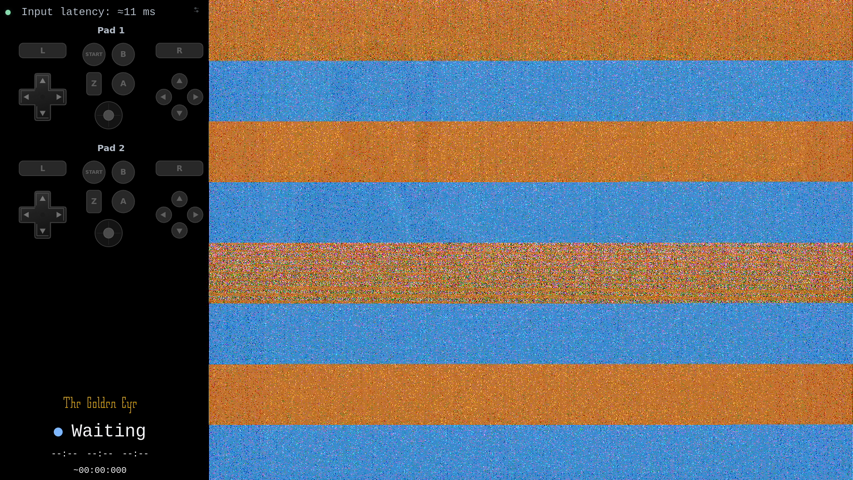
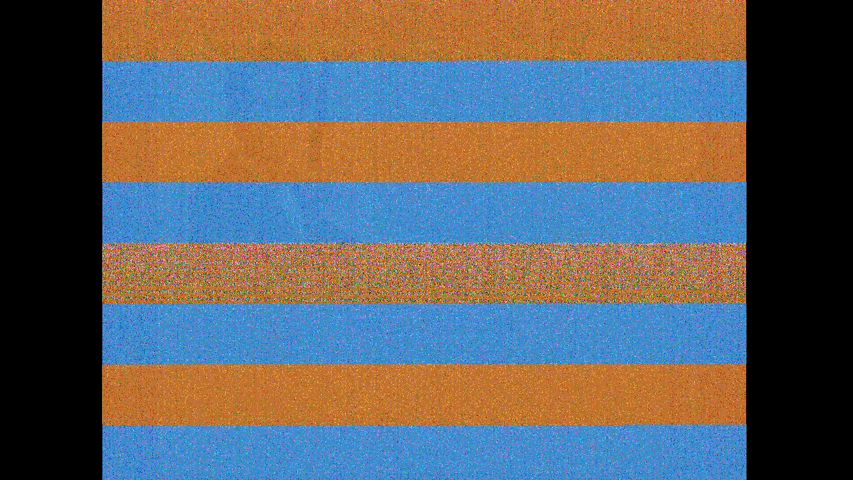
test: reconstruct source-only startup corruption fixture

diff --git a/obs2/rust/cv/src/sequence_test.rs b/obs2/rust/cv/src/sequence_test.rs
@@ -1,5 +1,7 @@
 use std::path::PathBuf;
 
+use opencv::prelude::*;
+use opencv::{core, imgcodecs, imgproc};
 use serde::Deserialize;
 
 use crate::CvMatcher;
@@ -11,6 +13,17 @@ fn startup_corruption_cannot_commit_capture_calibration() {
     let root = fixture_root().join("sequences/startup-calibration");
     let corrupt = std::fs::read(root.join("corrupted-signal.png")).unwrap();
     let start = std::fs::read(root.join("start.png")).unwrap();
+    let encoded = core::Mat::from_slice(&corrupt).unwrap();
+    let bgr = imgcodecs::imdecode(&encoded, imgcodecs::IMREAD_COLOR).unwrap();
+    let mut bgra = core::Mat::default();
+    imgproc::cvt_color_def(&bgr, &mut bgra, imgproc::COLOR_BGR2BGRA).unwrap();
+    let folder = crate::calibration::detect_folder_aspect(&bgra, bgra.cols(), bgra.rows())
+        .unwrap()
+        .expect("false folder candidate");
+    assert!(
+        folder.aspect > crate::calibration::FOLDER_STRETCH_ASPECT,
+        "source corruption must trigger the old stretch rule"
+    );
     for language in ["jp", "en"] {
         let matcher = CvMatcher::new(language, TEMPLATES).unwrap();
         for _ in 0..3 {
@@ -33,8 +46,6 @@ fn startup_corruption_cannot_commit_capture_calibration() {
 
 #[test]
 fn confirmed_dossier_still_calibrates_stretched_capture() {
-    use opencv::{core, imgcodecs, imgproc};
-
     let path = fixture_root().join("screenshots-av2hdmi/en - start - 10 - Agent.png");
     let original = imgcodecs::imread(path.to_str().unwrap(), imgcodecs::IMREAD_COLOR).unwrap();
     let mut stretched = core::Mat::default();

diff --git a/frame_tests/sequences/startup-calibration/README.md b/frame_tests/sequences/startup-calibration/README.md
@@ -2,16 +2,22 @@
 
 Captured on 2026-10-11 with the English ROM and The Golden Eye 1.0.5 running in OBS.
 
-- `corrupted-signal.png`: replay frame at 00:02.533 from the signal transition after
-  the UGREEN splash, reduced to the initial monitor size (853×480). It includes
-  the OBS scene overlays. The orange/blue corruption passed the folder colour
-  detector and caused a permanent full-frame 4:3 squeeze.
+- `corrupted-signal.png`: the N64-source portion of the replay frame at
+  00:02.533, during the signal transition after the UGREEN splash. The saved OBS
+  scene placed the source at (470, 0), scale 1, with 230 pixels cropped from the
+  left and 240 from the right. We extracted the 1450×1080 rectangle at (470, 0)
+  and restored the cropped columns as black bars (confirmed by the capture's
+  owner), giving the original 1920×1080 source layout. It was then reduced to
+  853×480, the monitor's initial input size; no OBS overlays remain. This is a
+  reconstruction from the encoded replay, not a lossless monitor frame dump.
+  Its corruption independently passes the old folder colour and stretch rules.
 - `start.png`: the source-only Train Agent dossier captured through the screenshot
   API, reduced from 1920×1080 to 853×480 with FFmpeg's default scaling.
 - `squeezed-start.png`: the actual 640×480 monitor input dumped after the bad GPU
   transform was latched. Both languages failed to recognize this frame.
 
-The CV sequence test checks that corruption never commits capture geometry and
+The CV sequence test verifies that the source corruption passes the old folder
+and stretch rules, then checks that it never commits capture geometry and
 that the next real dossier detects English. Runtime tests use the squeezed frame
 for the bounded recovery probe and verify that resetting capture discards queued
 transformed frames and permits a new calibration.
